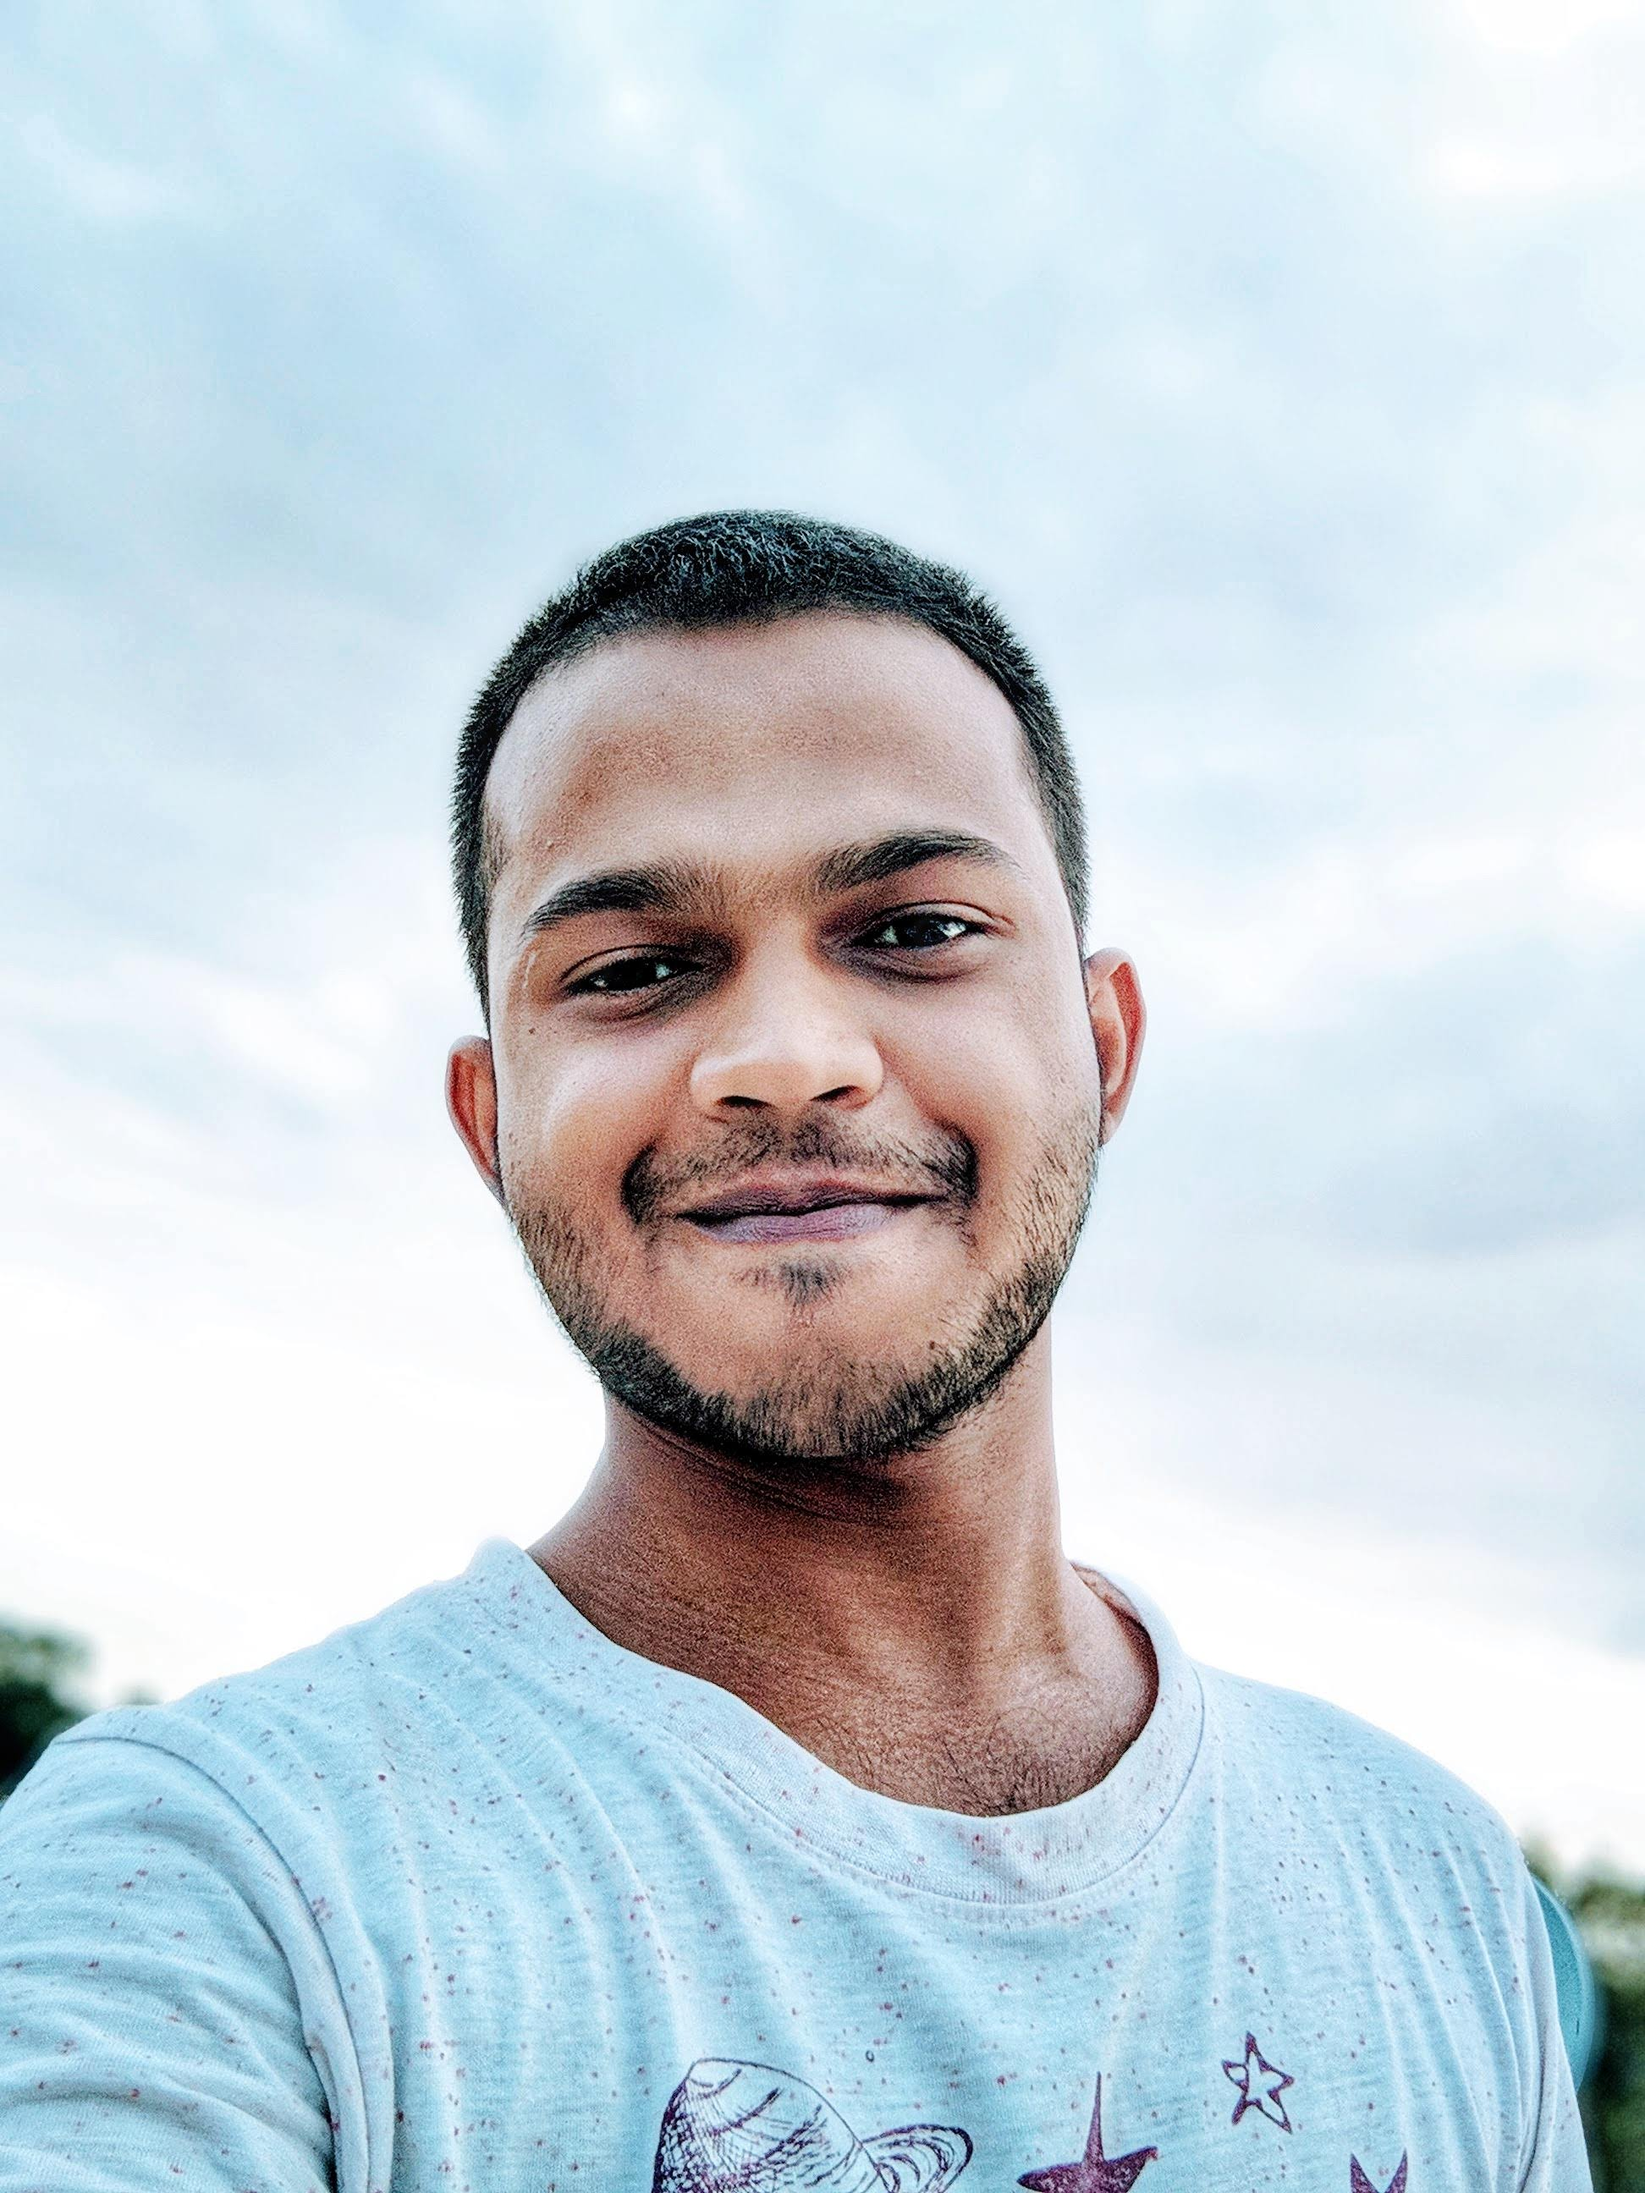
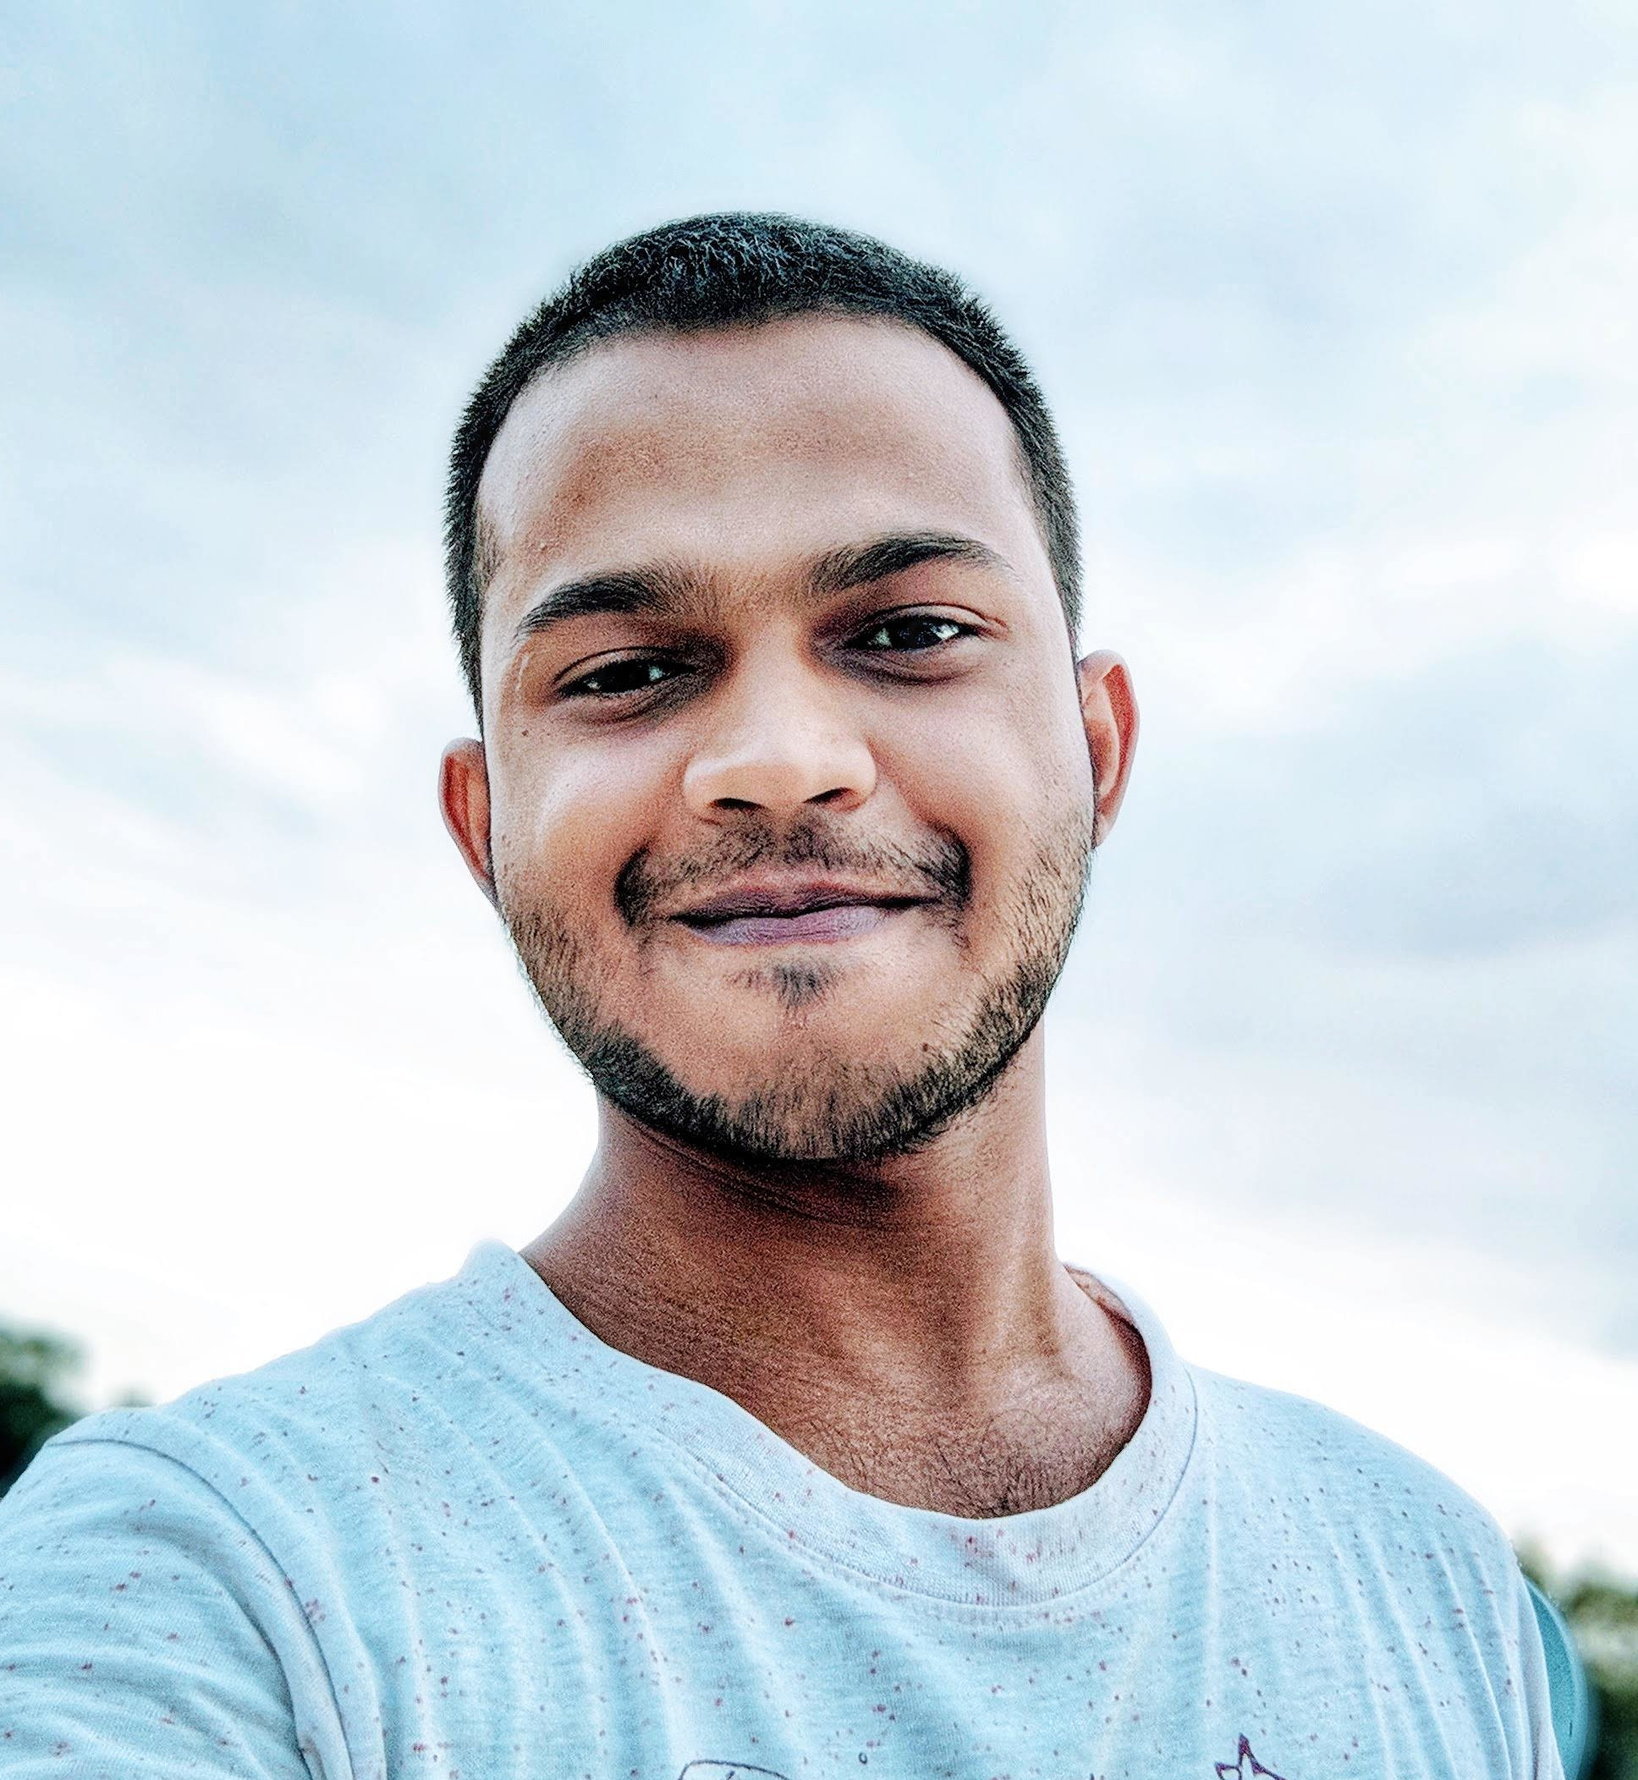
added some information on fields

diff --git a/gatsby-config.js b/gatsby-config.js
@@ -1,13 +1,13 @@
 module.exports = {
   siteMetadata: {
     // Site URL for when it goes live
-    siteUrl: `https://elastic-meninsky-aa7c74.netlify.app/`,
+    siteUrl: `https://rajrathi.github.io`,
     // Your Name
     name: 'Rajeshwar Rathi',
     // Main Site Title
     title: `Rajeshwar Rathi | Machine Learning Engineer and Researcher`,
     // Description that goes under your name in main bio
-    description: `Machine Learning Engineer and Researcher`,
+    description: `Machine Learning Researcher and Engineer`,
     // Optional: Twitter account handle
     author: `@rajeshwar_rathi`,
     // Optional: Github account URL
@@ -15,7 +15,7 @@ module.exports = {
     // Optional: LinkedIn account URL
     linkedin: `https://www.linkedin.com/in/rajeshwarrathi/`,
     // Content of the About Me section
-    about: `Lorem ipsum dolor sit amet consectetur adipisicing elit. Ducimus perferendis porro cumque ea error ab voluptatem. Temporibus adipisci exercitationem similique itaque quibusdam laudantium, qui molestiae quas, aut amet animi id.`,
+    about: `I am a curious Machine Learning Researcher aiming to solve the problems affecting the society, environment and Earth. I am highly interested in developing novel Machine Learning techniques and Neural Network architectures espicially in Vision tasks.`,
     // Optional: List your projects, they must have `name` and `description`. `link` is optional.
     projects: [
       {
@@ -37,10 +37,12 @@ module.exports = {
         link: '',
       },
       {
-        name: 'HuggingFace space for generating MNIST digits using Conditional GAN',
-        description: '',
-        link: 'https://huggingface.co/spaces/keras-io/conditional-GAN',
-      }
+        name: 'Trading System',
+        description:
+          '',
+        link: '',
+      },
+
     ],
     // Optional: List your experience, they must have `name` and `description`. `link` is optional.
     experience: [
@@ -82,16 +84,21 @@ module.exports = {
       {
         name: 'Languages & Frameworks',
         description:
-          'JavaScript (ES6+), Golang, Node.js, Express.js, React, Ruby on Rails, PHP',
+          'Python, C++, C, Flutter',
       },
       {
-        name: 'Databases',
-        description: 'MongoDB, PostreSQL, MySQL',
+        name: 'Python libraries',
+        description: 'NumPy, Pandas, Matplotlib, scikit-learn, statsapi, PyTorch, TensorFlow, Keras, OpenCV, NetworkX, GraphViz'
       },
+      {
+        name: 'Databases and ETL',
+        description: 'SQLServer, MySQL, RedShift, Azure Data Factory, Informatica',
+      },
+      
       {
         name: 'Other',
         description:
-          'Docker, Amazon Web Services (AWS), CI / CD, Microservices, API design, Agile / Scrum',
+          'Amazon Web Services (AWS), CI / CD (Jenkins), Agile / Scrum',
       },
     ],
   },

diff --git a/src/components/header/index.jsx b/src/components/header/index.jsx
@@ -7,7 +7,7 @@ import profileImg from '../../images/profile.jpeg';
 const classes = {
   wrapper: 'block mb-6 md:flex',
   imageWrapper: 'w-full max-w-150',
-  image: 'rounded transform transition-all duration-150 hover:scale-105',
+  image: 'rounded-full transform transition-all duration-150 hover:scale-105',
   contentWrapper: 'flex-none pt-6 md:pt-1 md:flex-1 md:pl-20',
   name: 'text-5xl text-gray-900 font-bold leading-tight hover:text-black',
   description: 'text-gray-600',

diff --git a/content/blog/blog_101/index.md b/content/blog/blog_101/index.md
@@ -1,6 +1,7 @@
 ---
-title: 'Machine Learning 101: Linear Regression'
+title: "Unnamed"
 date: '2022-05-22T12:00:00.00Z'
-description: 'All about Linear Regression'
+description: 'Everything you need to know about Linear Regression'
 ---
 
+Upcoming!!!
